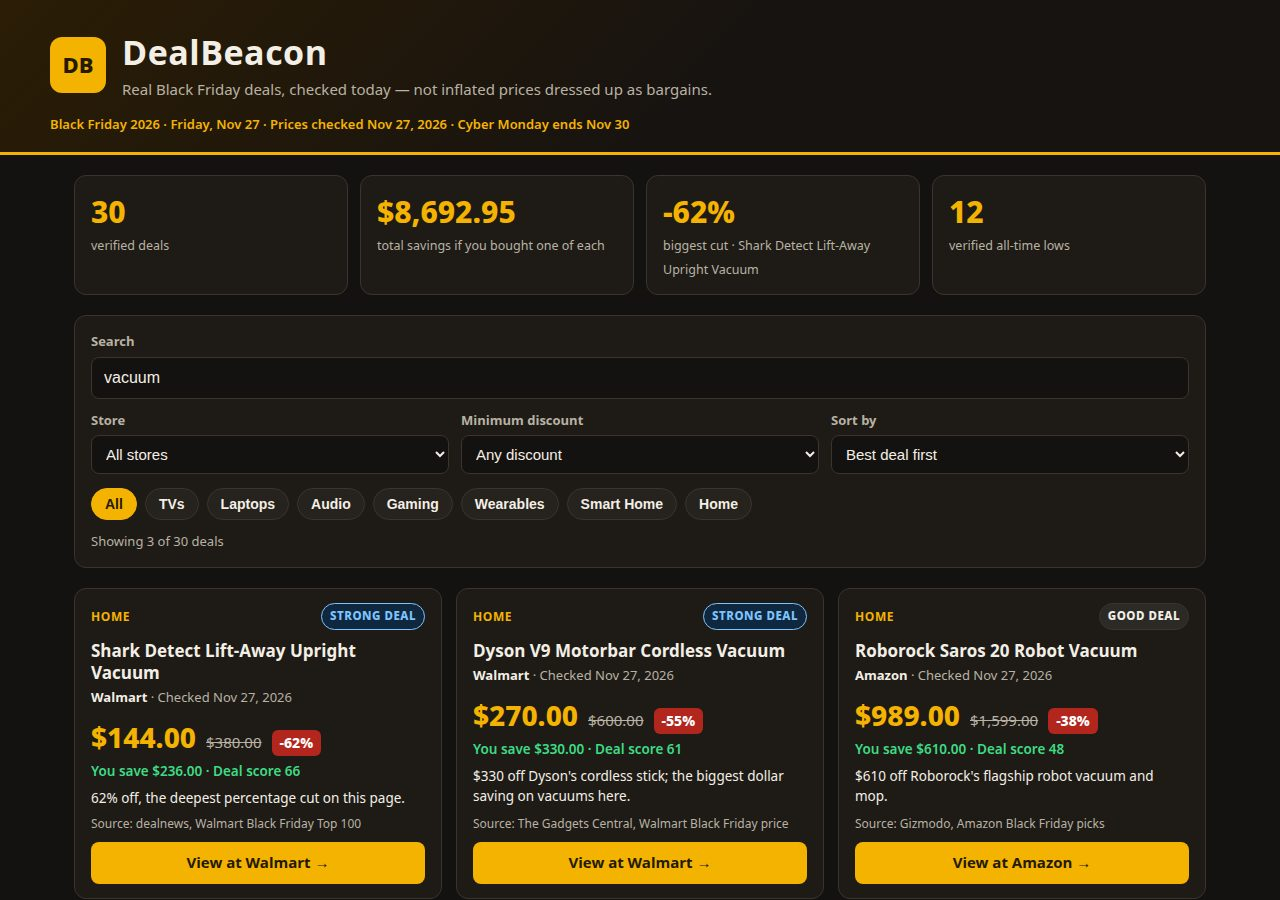
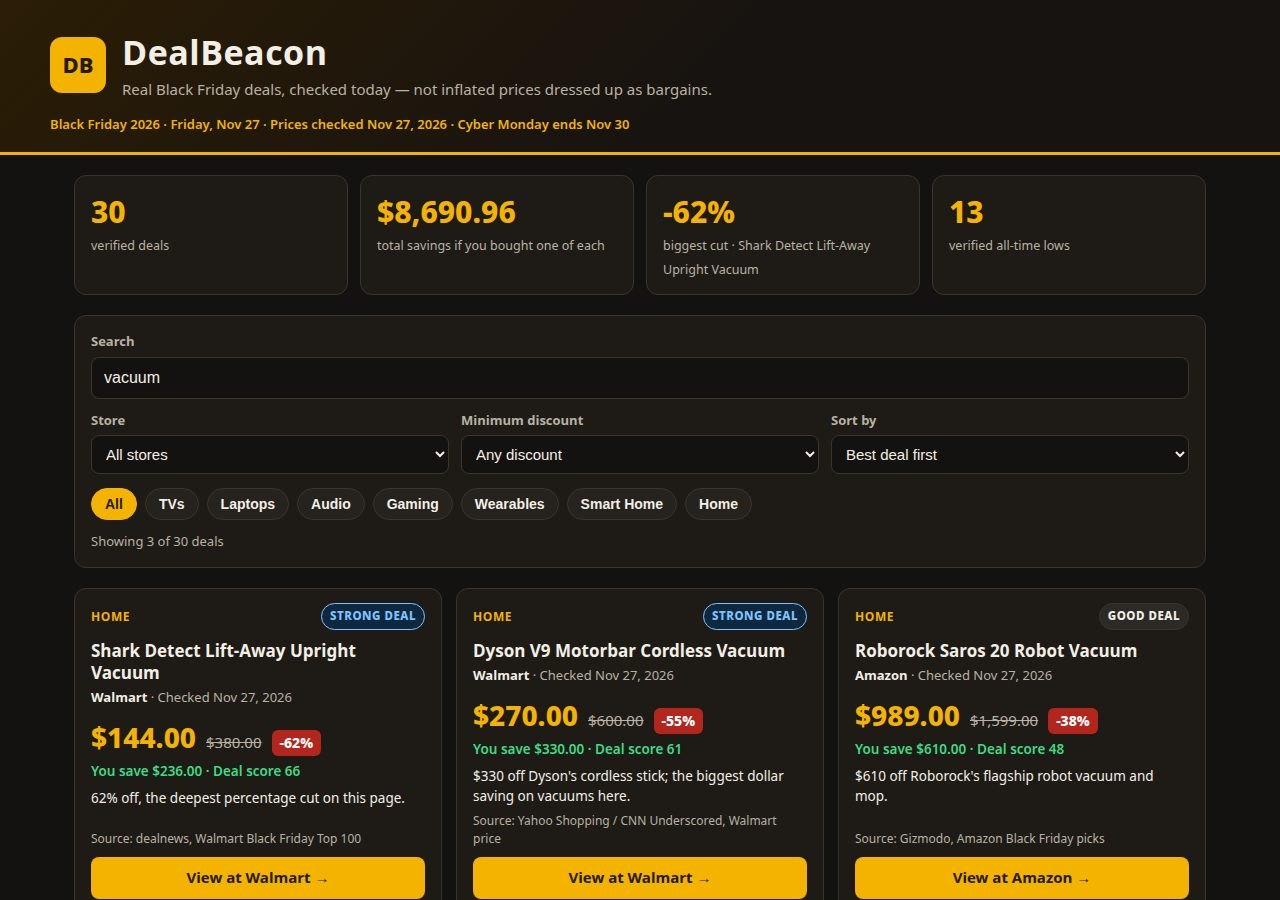
Fix XM5 price to Best Buy's $398 reference, mark all-time low; 13 NEW LOWs

Changed region(s): [[0.0625, 0.9022, 0.9375, 1.0], [0.3438, 0.2178, 0.4062, 0.2489], [0.75, 0.2178, 0.7812, 0.2489]]

diff --git a/app/deals.js b/app/deals.js
@@ -147,11 +147,11 @@ export const DEALS = [
     store: "Best Buy",
     category: "Audio",
     sale: 169.0,
-    was: 399.99,
-    low: false,
+    was: 398.0,
+    low: true,
     url: "https://www.bestbuy.com/site/searchpage.jsp?st=Sony+WH-1000XM5+headphones",
-    source: "beebulletin, Best Buy Black Friday price",
-    note: "Sony's flagship ANC set at less than half its list price.",
+    source: "Best Buy doorbuster, via HotHardware / 9to5Toys",
+    note: "Sony's flagship ANC set at its lowest price ever — $169.99 is an all-time low at Best Buy.",
   },
   {
     id: "beats-360",
@@ -318,7 +318,7 @@ export const DEALS = [
     was: 600.0,
     low: false,
     url: "https://www.walmart.com/search?q=Dyson+V9+Motorbar+cordless+vacuum",
-    source: "The Gadgets Central, Walmart Black Friday price",
+    source: "Yahoo Shopping / CNN Underscored, Walmart price",
     note: "$330 off Dyson's cordless stick; the biggest dollar saving on vacuums here.",
   },
   {

diff --git a/app/index.html b/app/index.html
@@ -74,7 +74,7 @@
   <section class="method" aria-label="How deals were checked">
     <h2>How a deal earns its badge</h2>
     <ul>
-      <li><strong>NEW LOW</strong> — the named source called it the product's lowest price ever. Only 12 of 30 deals earn it.</li>
+      <li><strong>NEW LOW</strong> — the named source called it the product's lowest price ever. Only 13 of 30 deals earn it.</li>
       <li><strong>STRONG DEAL</strong> — 40% or more off the usual price, with the cut confirmed at the store.</li>
       <li><strong>GOOD DEAL</strong> — 20–39% off. A real saving, not a record.</li>
       <li><strong>FAIR DEAL</strong> — under 20% off. Worth buying if you needed it anyway, not worth rushing for.</li>

diff --git a/NOTES.md b/NOTES.md
@@ -30,7 +30,7 @@ renders and filters).
 
 ## Verdicts, honestly
 
-- NEW LOW (12 deals): only where the named source called the price an
+- NEW LOW (13 deals): only where the named source called the price an
   all-time low. The code never upgrades a deal by itself.
 - STRONG DEAL: 40%+ off. GOOD DEAL: 20–39%. FAIR DEAL: under 20%.
 - Deliberately kept on the page even though the cut is small: Nintendo
